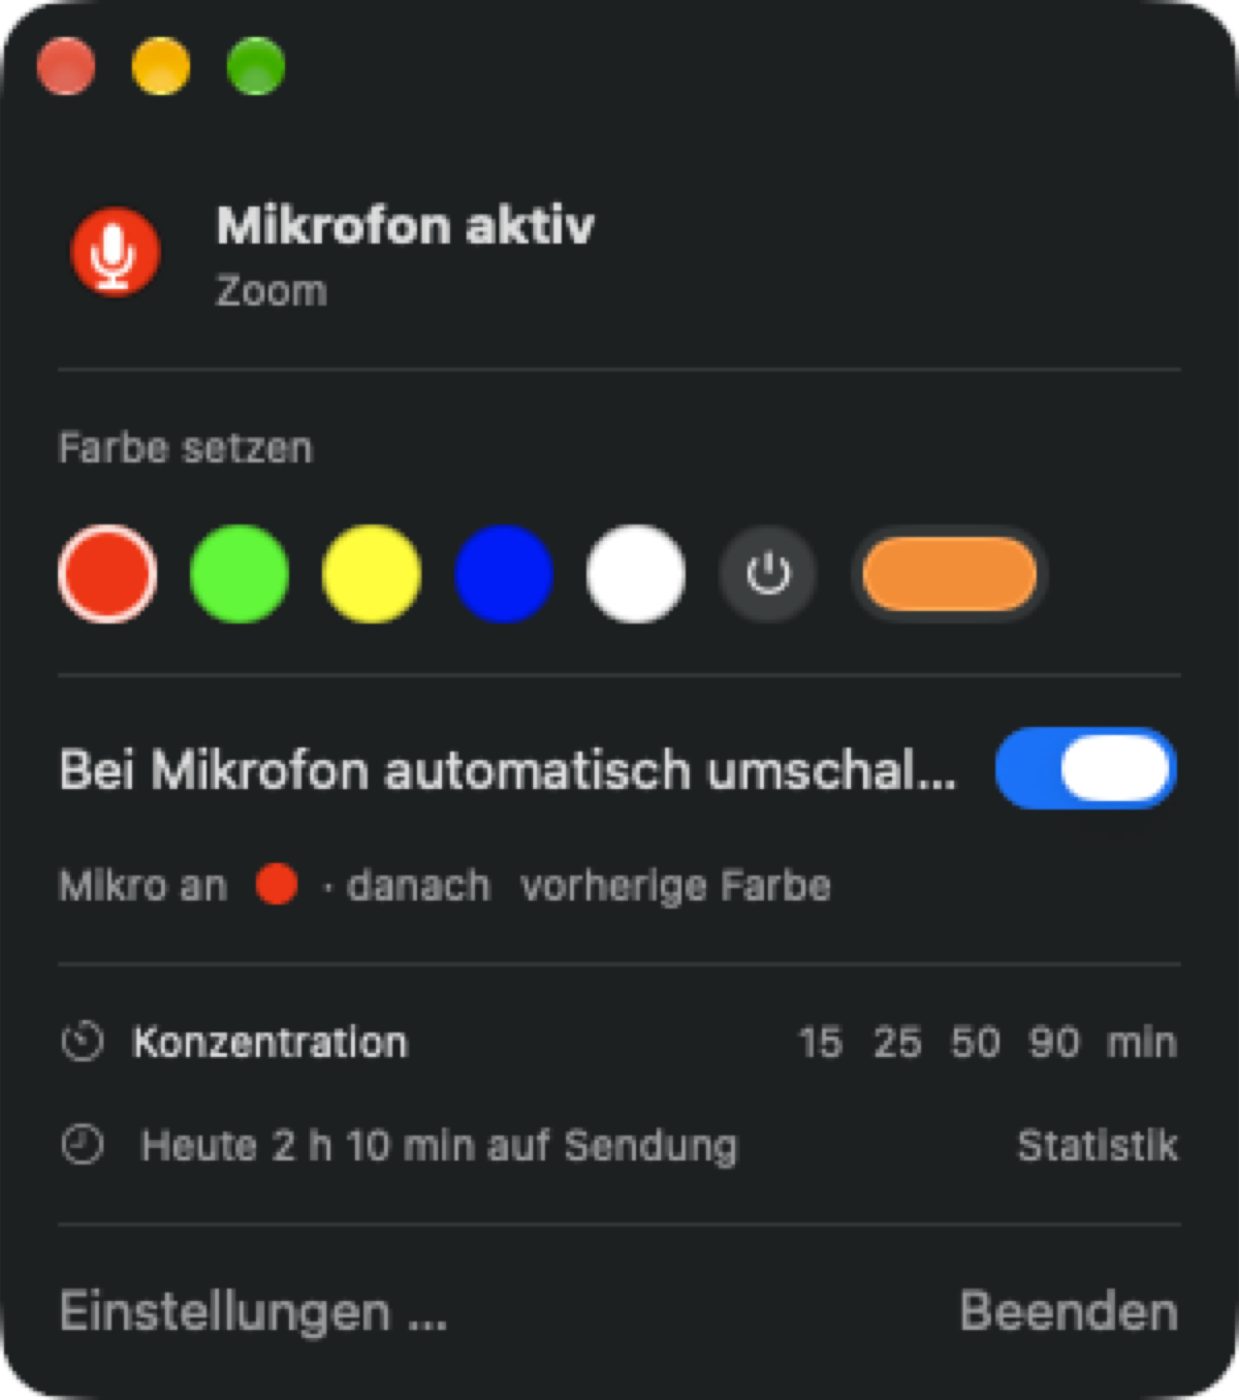
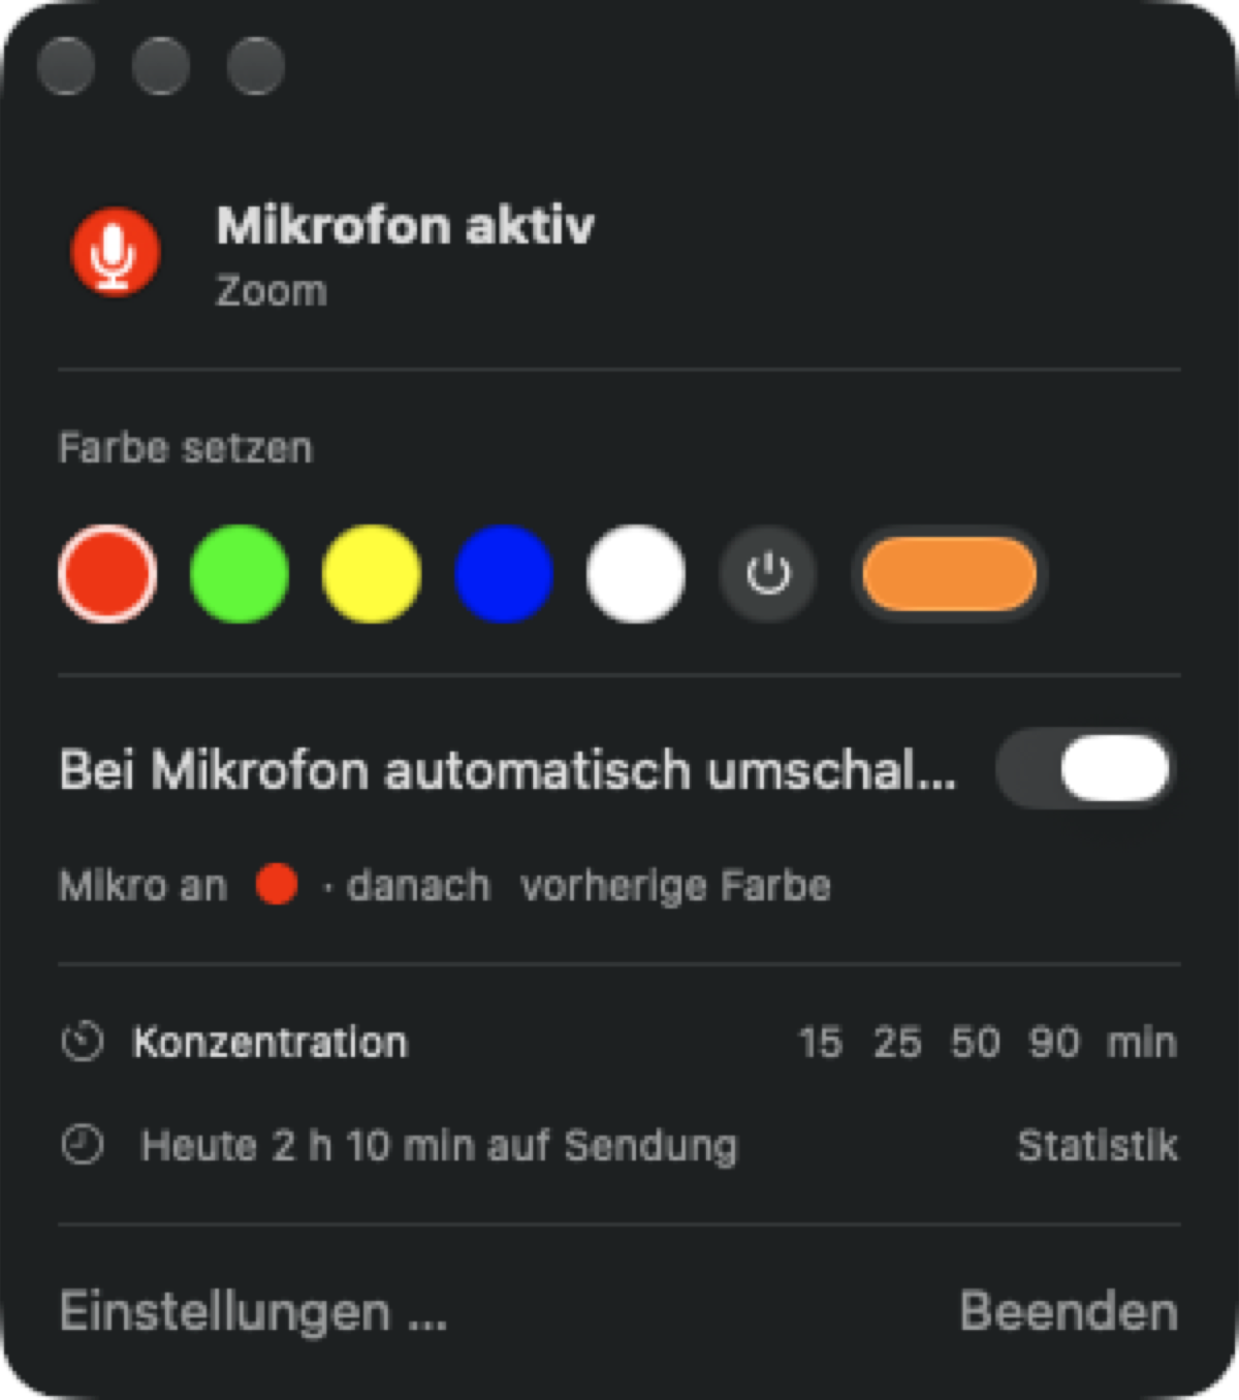
docs: show the Govee and Nanoleaf settings in the README #22

Changed region(s): [[0.7974, 0.4914, 0.9508, 0.5836], [0.0307, 0.0, 0.1533, 0.0921], [0.184, 0.0, 0.2454, 0.0921]]

diff --git a/README.md b/README.md
@@ -152,6 +152,13 @@ Ist die Bridge nicht erreichbar, steht ein Fehler im Menü und MicLED versucht e
 
 ## Govee
 
+<p align="center">
+  <picture>
+    <source media="(prefers-color-scheme: dark)" srcset="docs/images/settings-network-dark.png">
+    <img src="docs/images/settings-network-light.png" alt="Einstellungen von MicLED: Abschnitte Govee und Nanoleaf mit gefundenen und gekoppelten Lampen" width="400">
+  </picture>
+</p>
+
 Govee-Lampen mit Steuerung im eigenen Netz, etwa das Monitor-Backlight Gaming Light Strip G1 (H6609), zeigen den Status ohne Govee-Konto und ohne Cloud. Welche Modelle das können, steht in der [Liste von Home Assistant](https://www.home-assistant.io/integrations/govee_light_local/). Mehrere Lampen sind möglich.
 
 Auf Sendung, beim Konzentrations-Timer und bei Fokus leuchten die Lampen in deren Farbe, abends entsprechend gedimmt. Danach haben sie wieder An/Aus, Helligkeit und Farbe bzw. Weißton von vorher. Szenen und Bildschirm-Sync (DreamView) meldet eine Govee-Lampe im eigenen Netz nicht; lief so etwas, endet es mit dem Call, und die Lampe bekommt danach eine feste Farbe (die zuletzt gemeldete, sonst neutrales Weiß).
@@ -261,7 +268,7 @@ Das Xcode-Target `RustCore` (Abhängigkeit der App) ruft `scripts/build-rust.sh`
 scripts/screenshots.sh
 ```
 
-Das Skript baut die Debug-App, startet sie mit Beispieldaten (Schalter `--screenshots`, nur in Debug-Builds) und nimmt Menü, Einstellungen und Statistik in Hell und Dunkel nach `docs/images/` auf. Lampe, Slack und Nextcloud bleiben dabei unberührt. Das Terminal braucht einmalig das Recht „Bildschirmaufnahme“ (Systemeinstellungen › Datenschutz & Sicherheit).
+Das Skript baut die Debug-App, startet sie mit Beispieldaten (Schalter `--screenshots`, nur in Debug-Builds) und nimmt Menü, Einstellungen (oben und bei Govee/Nanoleaf) und Statistik in Hell und Dunkel nach `docs/images/` auf. Lampe, Slack und Nextcloud bleiben dabei unberührt. Das Terminal braucht einmalig das Recht „Bildschirmaufnahme“ (Systemeinstellungen › Datenschutz & Sicherheit).
 
 ## Release
 
